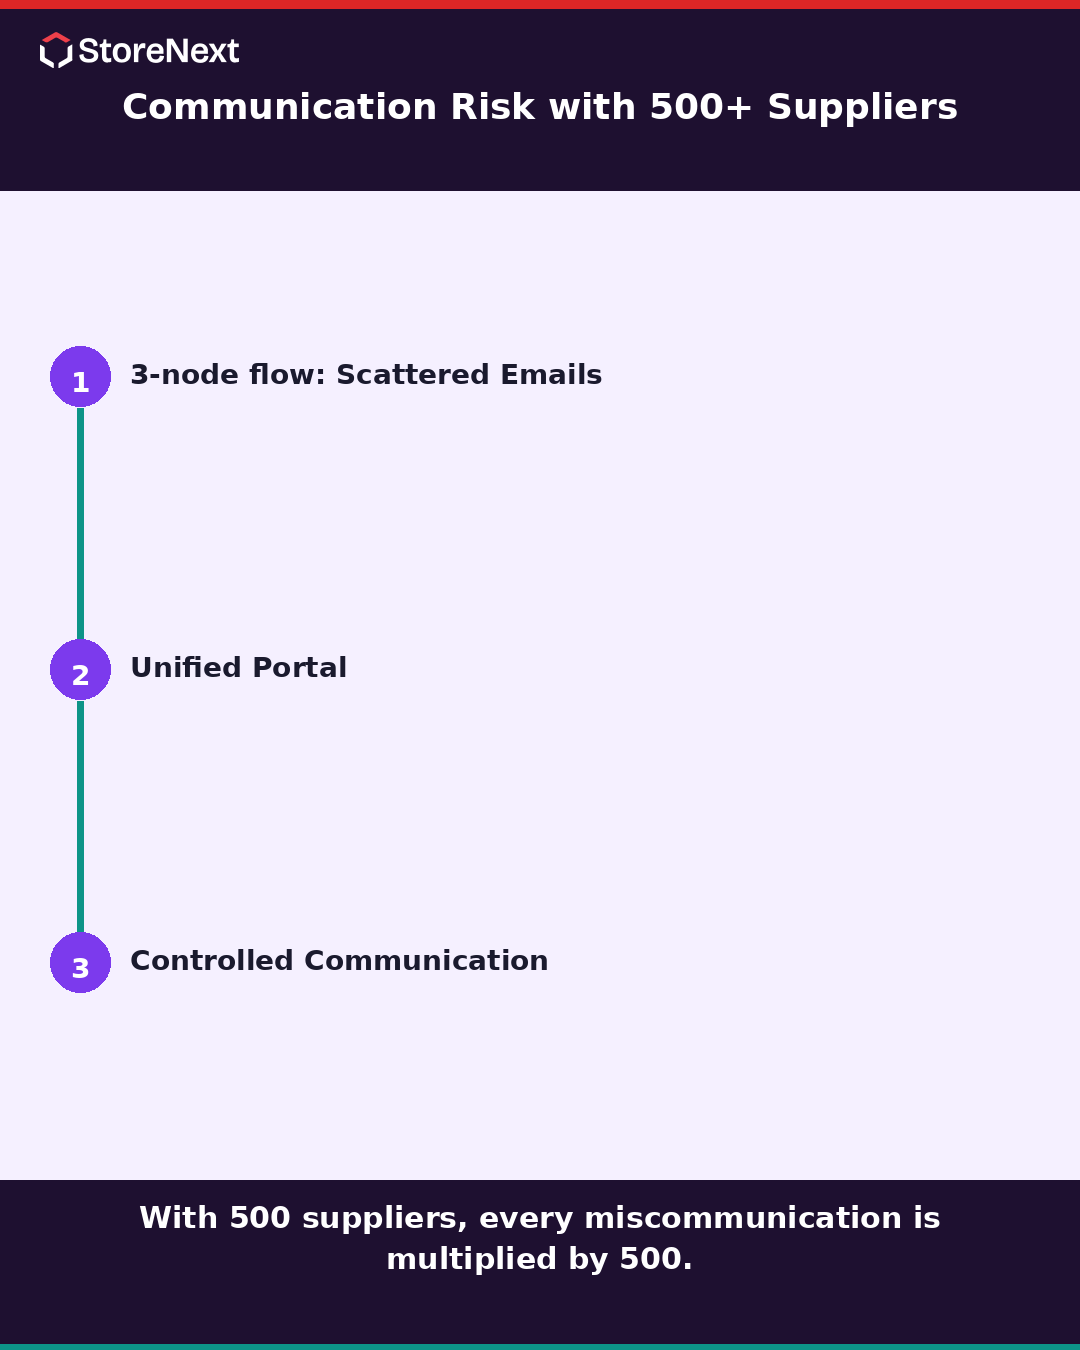
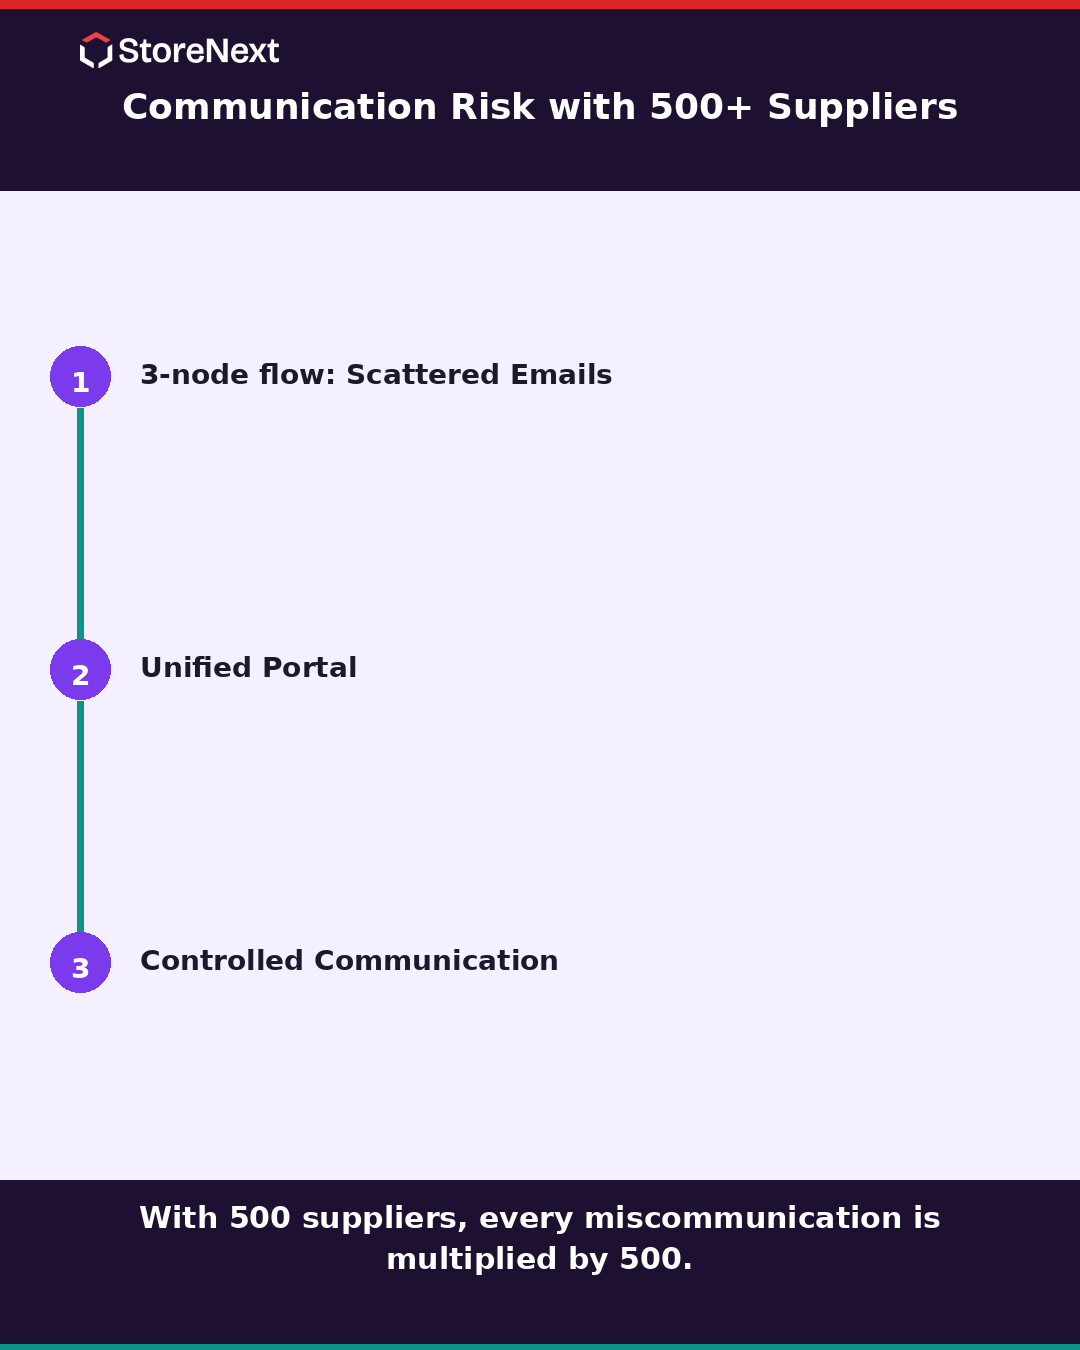
generate-visual: add MARGIN constant, expand safe zone on all edges

diff --git a/T-tools/generate-visual.py b/T-tools/generate-visual.py
@@ -41,6 +41,7 @@ def load_logo(dark_bg=True, width=220):
         return None
 
 W, H = 1080, 1350  # LinkedIn optimal
+MARGIN = 80          # safe zone — text never closer than this to edges
 
 def hex_to_rgb(h):
     h = h.lstrip("#")
@@ -61,7 +62,7 @@ def load_font(size, bold=False):
     return ImageFont.load_default()
 
 def draw_text_centered(draw, text, y, font, color, width=W, max_width=None):
-    max_width = max_width or (width - 80)
+    max_width = max_width or (width - MARGIN * 2)
     words = text.split()
     lines = []
     line = []
@@ -103,11 +104,11 @@ def stat_card(post):
     draw.rectangle([0, 0, W, 8], fill=hex_to_rgb(CORAL_RED))
 
     # Logo
-    paste_logo(img, dark_bg=True, x=40, y=30, width=200)
+    paste_logo(img, dark_bg=True, x=MARGIN, y=30, width=200)
 
     # Category chip
     cat_font = load_font(18)
-    draw.text((40, 80), post.get("category", "").upper(), font=cat_font,
+    draw.text((MARGIN, 80), post.get("category", "").upper(), font=cat_font,
               fill=hex_to_rgb(TEAL))
 
     # Main metric — massive, teal
@@ -118,11 +119,11 @@ def stat_card(post):
     draw.text((mx, 310), metric, font=metric_font, fill=hex_to_rgb(TEAL))
 
     # Divider
-    draw.rectangle([80, 530, W - 80, 534], fill=hex_to_rgb(BRAND_PURPLE))
+    draw.rectangle([MARGIN, 530, W - MARGIN, 534], fill=hex_to_rgb(BRAND_PURPLE))
 
     # Hook text
     hook_font = load_font(36, bold=True)
-    draw_text_centered(draw, post.get("hook", ""), 565, hook_font, WHITE, max_width=900)
+    draw_text_centered(draw, post.get("hook", ""), 565, hook_font, WHITE, max_width=W - MARGIN * 2)
 
     # Bottom brand purple bar
     draw.rectangle([0, H - 6, W, H], fill=hex_to_rgb(BRAND_PURPLE))
@@ -137,10 +138,10 @@ def process_flow(post):
     # Top deep purple header
     draw.rectangle([0, 0, W, 190], fill=hex_to_rgb(DEEP_PURPLE))
     draw.rectangle([0, 0, W, 8], fill=hex_to_rgb(CORAL_RED))
-    paste_logo(img, dark_bg=True, x=40, y=32, width=200)
+    paste_logo(img, dark_bg=True, x=MARGIN, y=32, width=200)
 
     title_font = load_font(36, bold=True)
-    draw_text_centered(draw, post.get("topic", ""), 85, title_font, WHITE, max_width=940)
+    draw_text_centered(draw, post.get("topic", ""), 85, title_font, WHITE, max_width=W - MARGIN * 2)
 
     # Steps from visual_direction
     direction = post.get("visual_direction", "")
@@ -166,7 +167,7 @@ def process_flow(post):
         nw = draw.textbbox((0,0), str(i+1), font=num_font)
         draw.text((cx - (nw[2]-nw[0])//2, cy - (nw[3]-nw[1])//2),
                   str(i+1), font=num_font, fill=WHITE)
-        draw.text((130, cy - 18), step, font=step_font, fill=hex_to_rgb(DARK_TEXT))
+        draw.text((MARGIN + 60, cy - 18), step, font=step_font, fill=hex_to_rgb(DARK_TEXT))
 
         if i < len(steps) - 1:
             draw.rectangle([77, cy + 32, 83, cy + step_h - 10],
@@ -176,7 +177,7 @@ def process_flow(post):
     # Hook footer
     hook_font = load_font(30, bold=True)
     draw.rectangle([0, H - 170, W, H], fill=hex_to_rgb(DEEP_PURPLE))
-    draw_text_centered(draw, post.get("hook", ""), H - 150, hook_font, WHITE, max_width=940)
+    draw_text_centered(draw, post.get("hook", ""), H - 150, hook_font, WHITE, max_width=W - MARGIN * 2)
     draw.rectangle([0, H - 6, W, H], fill=hex_to_rgb(TEAL))
 
     return img
@@ -187,7 +188,7 @@ def quote_card(post):
     draw = ImageDraw.Draw(img)
 
     draw.rectangle([0, 0, W, 8], fill=hex_to_rgb(CORAL_RED))
-    paste_logo(img, dark_bg=True, x=40, y=30, width=200)
+    paste_logo(img, dark_bg=True, x=MARGIN, y=30, width=200)
 
     # Large quote mark in brand purple
     q_font = load_font(200, bold=True)
@@ -195,14 +196,14 @@ def quote_card(post):
 
     # Hook text
     hook_font = load_font(50, bold=True)
-    hook_y = draw_text_centered(draw, post.get("hook", ""), 290, hook_font, WHITE, max_width=940)
+    hook_y = draw_text_centered(draw, post.get("hook", ""), 290, hook_font, WHITE, max_width=W - MARGIN * 2)
 
     draw.text((W - 120, hook_y + 10), "\u201d", font=q_font, fill=hex_to_rgb(BRAND_PURPLE))
 
     # Metric callout in teal
     metric = post.get("key_metric", "")
     if metric:
-        draw.rectangle([80, hook_y + 110, W - 80, hook_y + 114], fill=hex_to_rgb(TEAL))
+        draw.rectangle([MARGIN, hook_y + 110, W - MARGIN, hook_y + 114], fill=hex_to_rgb(TEAL))
         m_font = load_font(60, bold=True)
         draw_text_centered(draw, metric, hook_y + 130, m_font, hex_to_rgb(TEAL))
 
